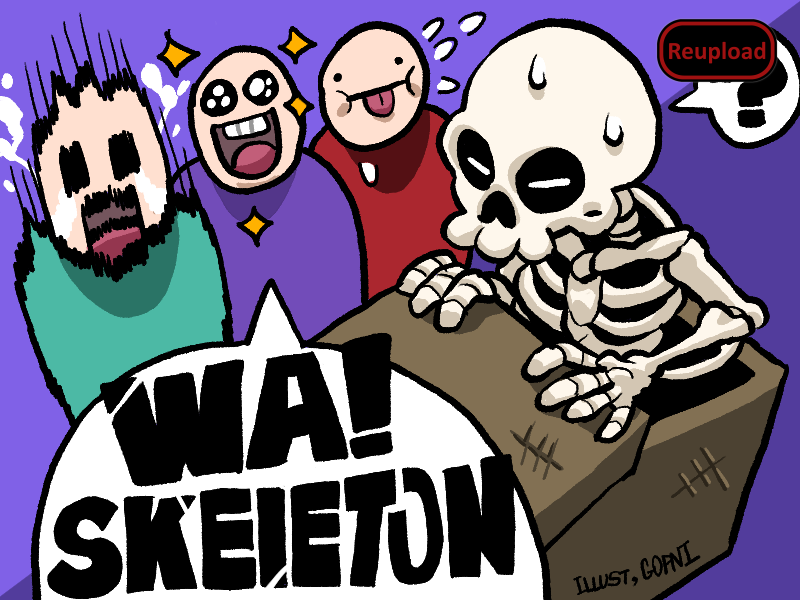
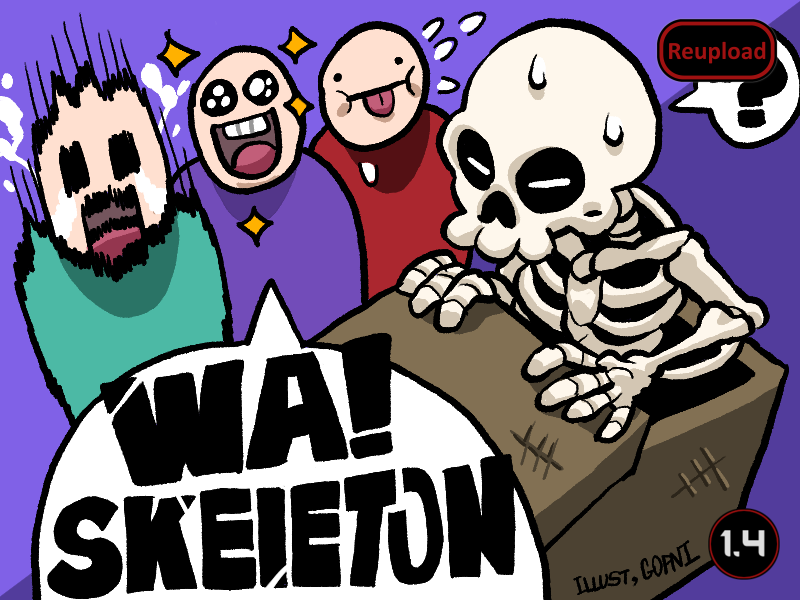
Last update, added end-of-life message

Changed region(s): [[0.875, 0.84, 1.0, 0.99]]

diff --git a/README.md b/README.md
@@ -22,7 +22,7 @@ https://steamcommunity.com/sharedfiles/filedetails/?id=1627043991
 - Zombies and Skeletons now have brains for psycasting, thanks TheCakeIsALie!
 - A nice reskin of the zombies with https://steamcommunity.com/sharedfiles/filedetails/?id=2871340046]Wa! Skeleton! - Zombie Retexture by Elseud
 
-![Image](https://i.imgur.com/pufA0kM.png)
+![Image](https://i.imgur.com/KFjAmff.png)
 
 
 https://steamcommunity.com/sharedfiles/filedetails/?id=2288125657]![Image](https://i.imgur.com/kNldlMg.png)
@@ -54,10 +54,13 @@ Languages: English, Korean, Russian
 
 -  See if the the error persists if you just have this mod and its requirements active.
 -  If not, try adding your other mods until it happens again.
--  Post your error-log using https://steamcommunity.com/workshop/filedetails/?id=818773962]HugsLib and command Ctrl+F12
+-  Post your error-log using https://steamcommunity.com/workshop/filedetails/?id=818773962]HugsLib or the standalone https://steamcommunity.com/sharedfiles/filedetails/?id=2873415404]Uploader and command Ctrl+F12
 -  For best support, please use the Discord-channel for error-reporting.
 -  Do not report errors by making a discussion-thread, I get no notification of that.
 -  If you have the solution for a problem, please post it to the GitHub repository.
+-  Use https://github.com/RimSort/RimSort/releases/latest]RimSort to sort your mods
 
 
-https://steamcommunity.com/sharedfiles/filedetails/changelog/2159119022]Last updated 2023-04-03
+
+https://steamcommunity.com/sharedfiles/filedetails/changelog/2159119022]![Image](https://img.shields.io/github/v/release/emipa606/WaSkeleton?label=latest%20version&style=plastic&color=9f1111&labelColor=black)
+
